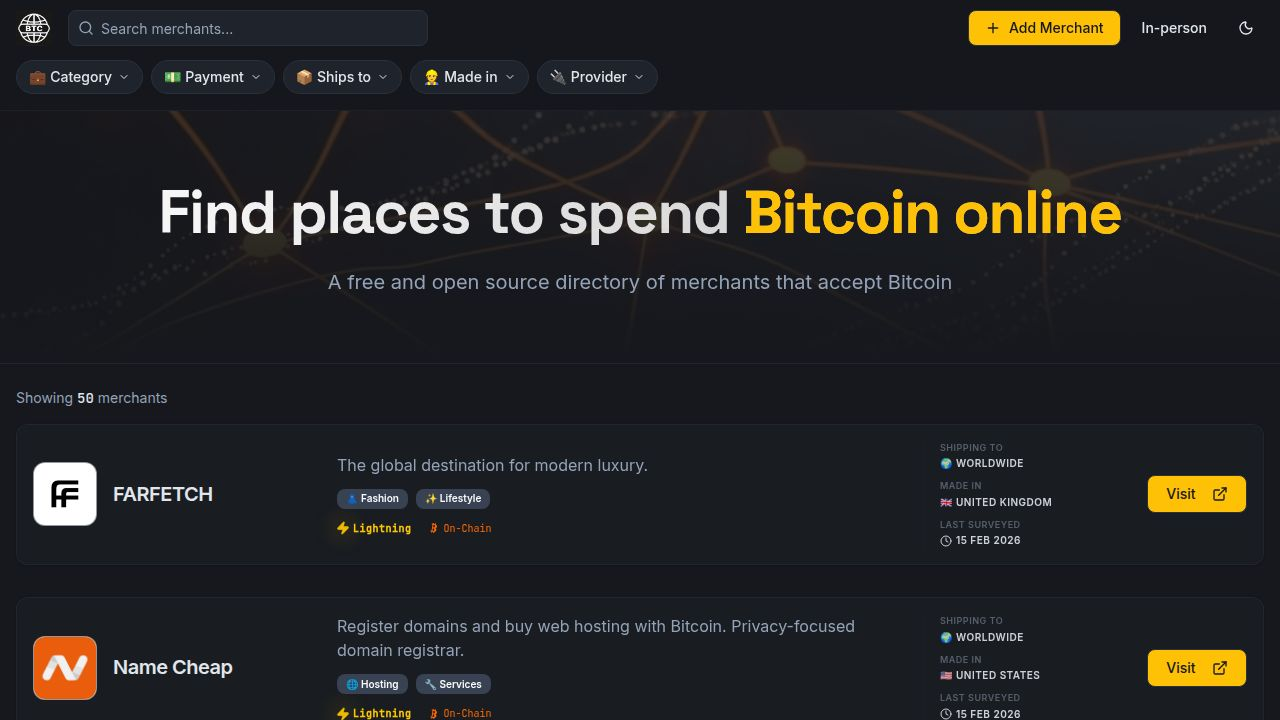
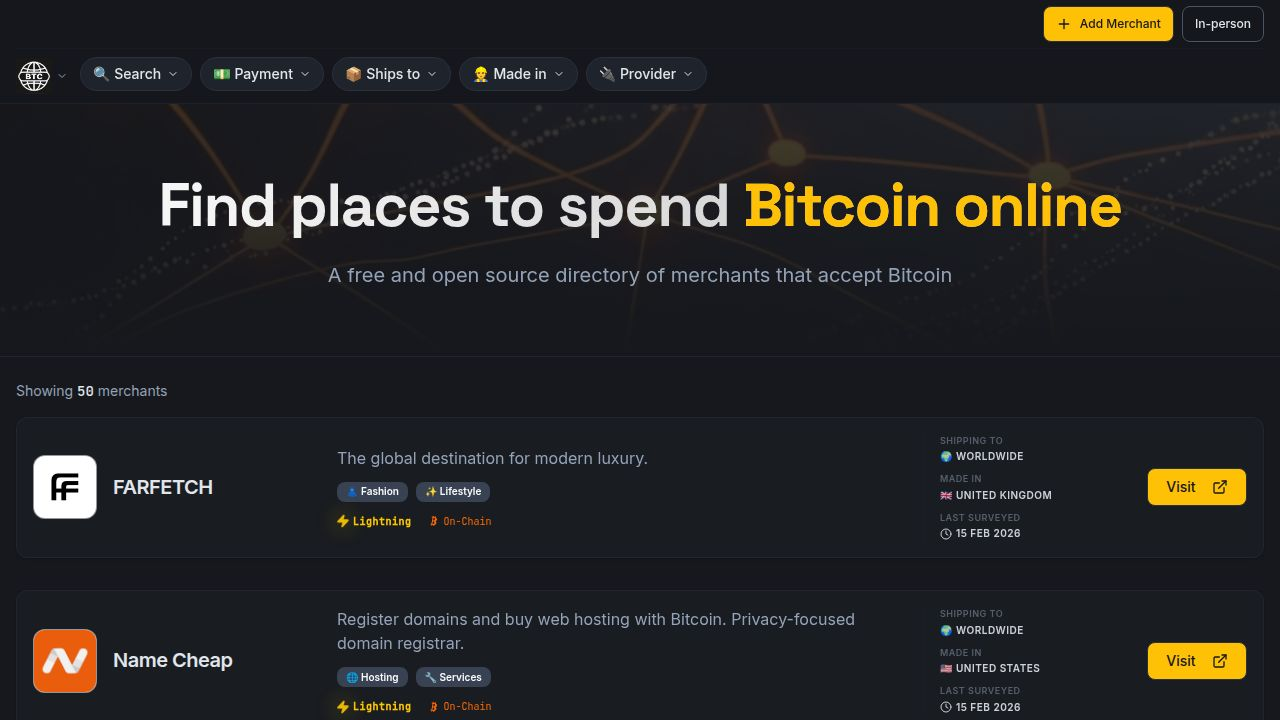
Update the In-person button to have a light grey border
Update the border color of the "In-person" button to light grey for better visual distinction.

Replit-Commit-Author: Agent
Replit-Commit-Session-Id: 73ded8ea-ef67-45f3-9006-189e18f49c11
Replit-Commit-Checkpoint-Type: full_checkpoint
Replit-Commit-Event-Id: 71d9dc71-4b0b-4b3e-bb18-6d17beec2721
Replit-Commit-Screenshot-Url: https://storage.googleapis.com/screenshot-production-us-central1/836d56c9-18a9-46ad-9972-6a9fa87541a8/73ded8ea-ef67-45f3-9006-189e18f49c11/3PiPZcy
Replit-Helium-Checkpoint-Created: true

diff --git a/client/src/components/navbar.tsx b/client/src/components/navbar.tsx
@@ -117,7 +117,7 @@ export default function Navbar({ onSearch, filtersSlot }: NavbarProps) {
             </DialogContent>
           </Dialog>
 
-          <Button asChild variant="outline" className="text-xs font-medium hover:text-primary transition-colors h-8 px-3">
+          <Button asChild variant="outline" className="text-xs font-medium hover:text-primary transition-colors h-8 px-3 border-gray-300 dark:border-gray-600">
             <a href="https://btcmap.org" target="_blank" rel="noopener noreferrer">
               In-person
             </a>
